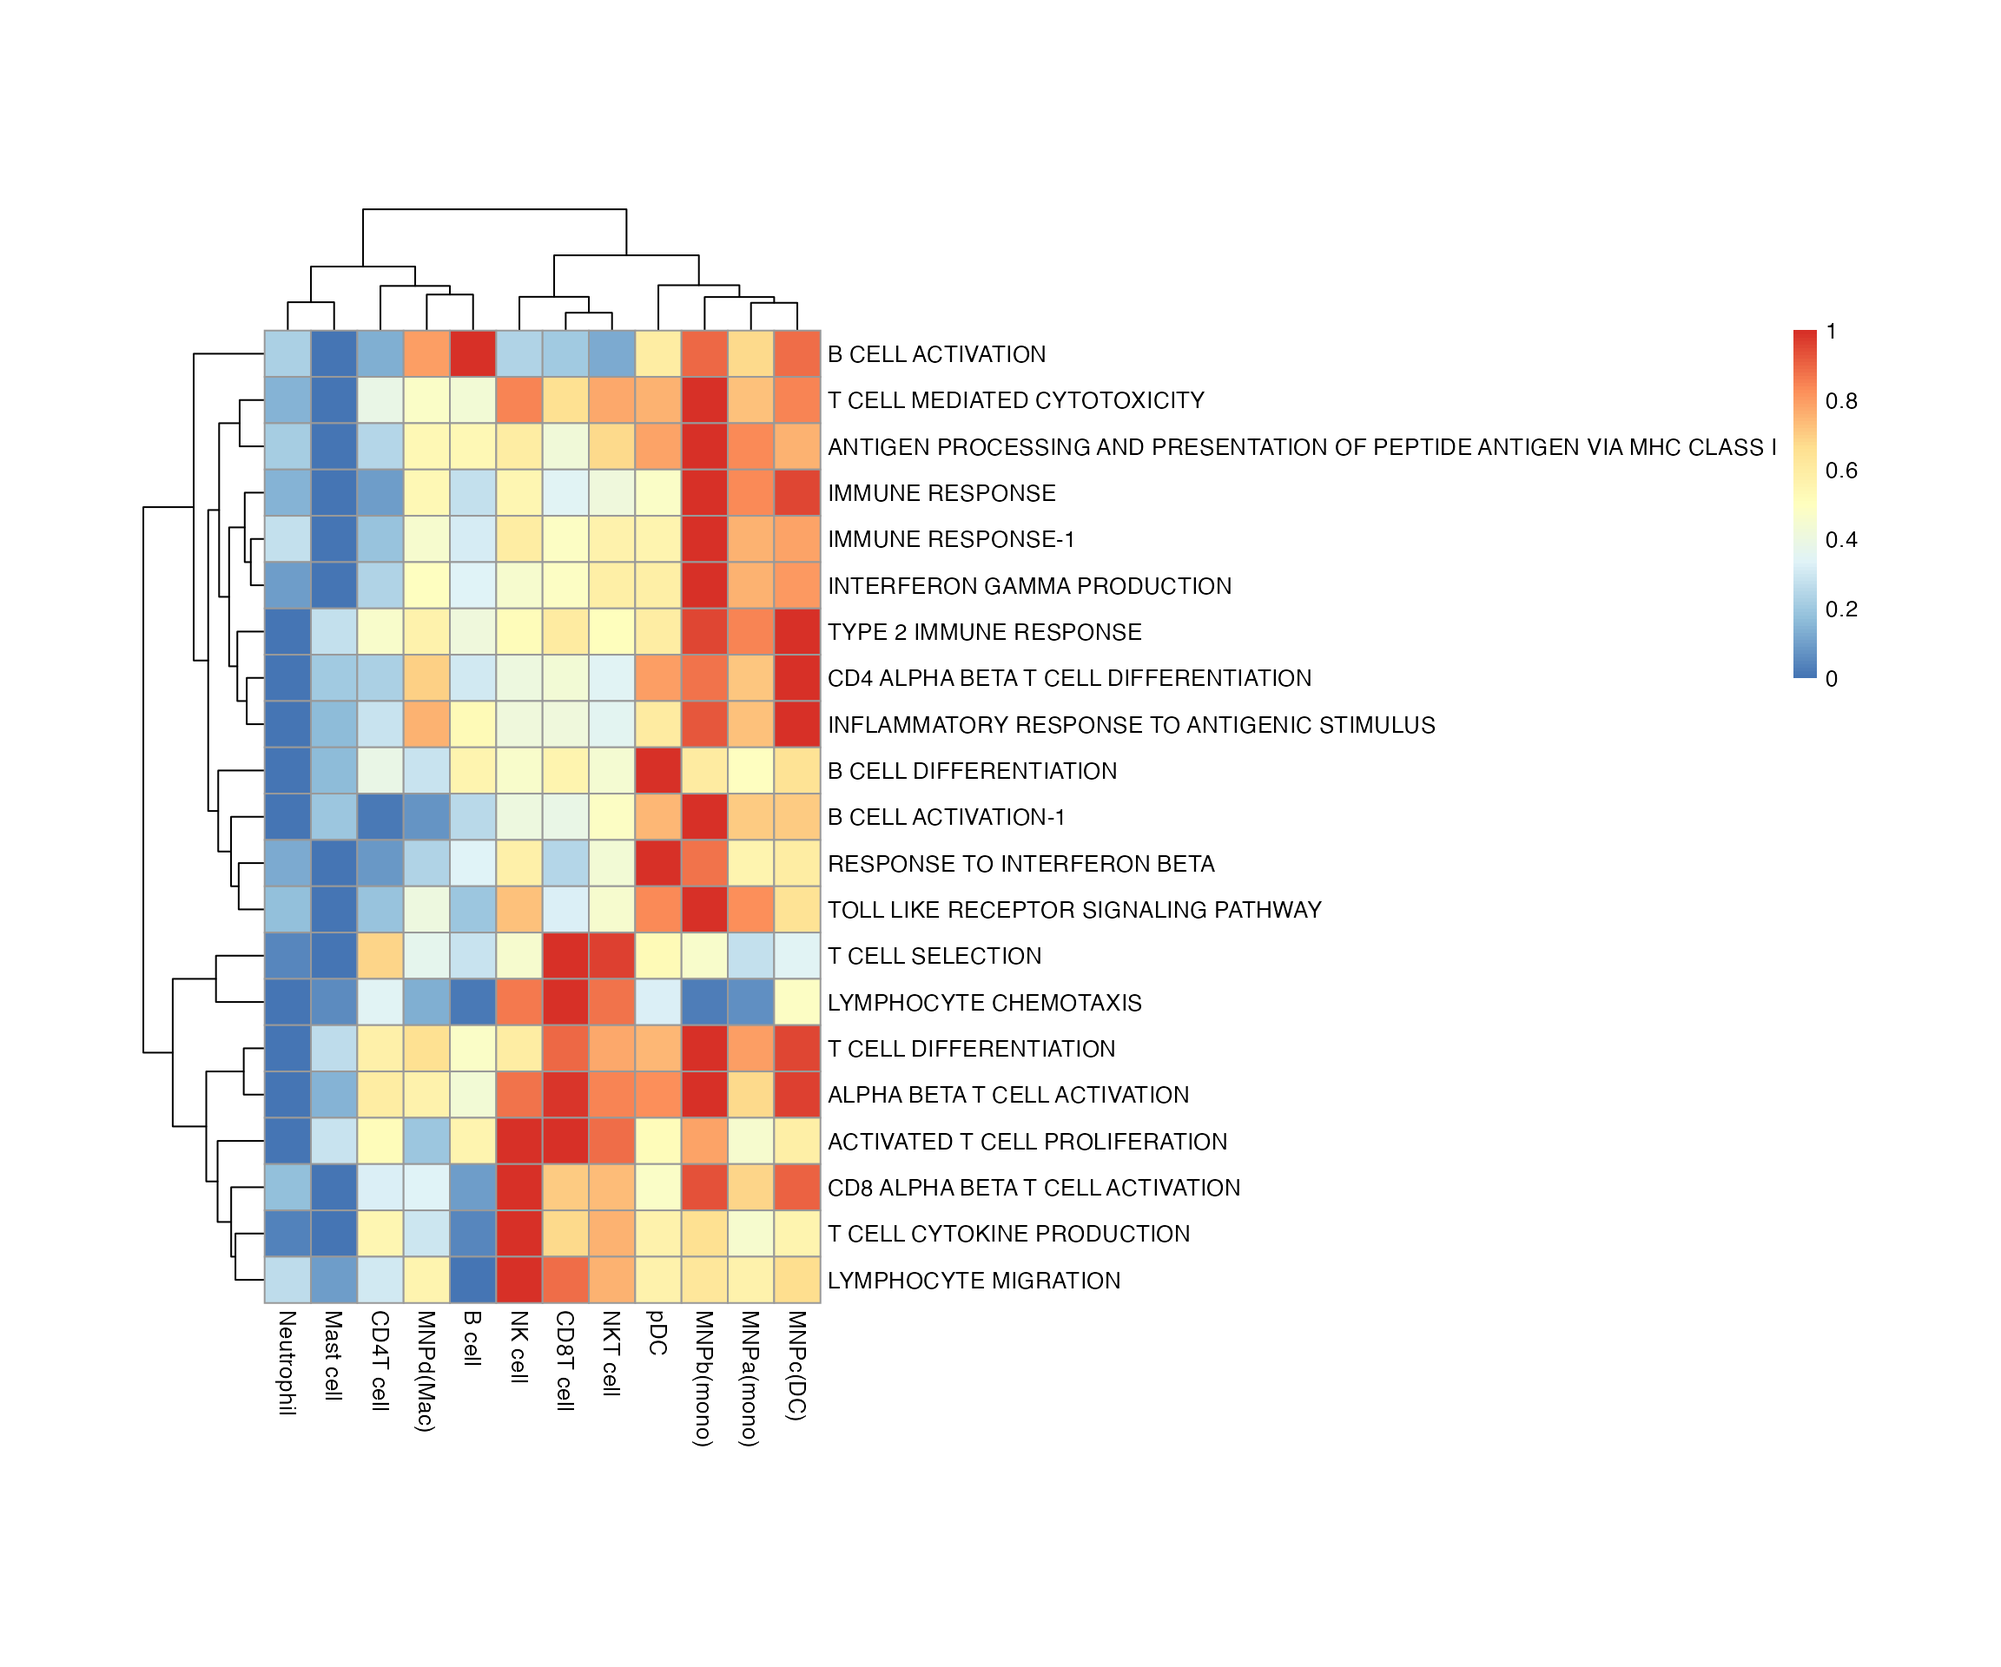
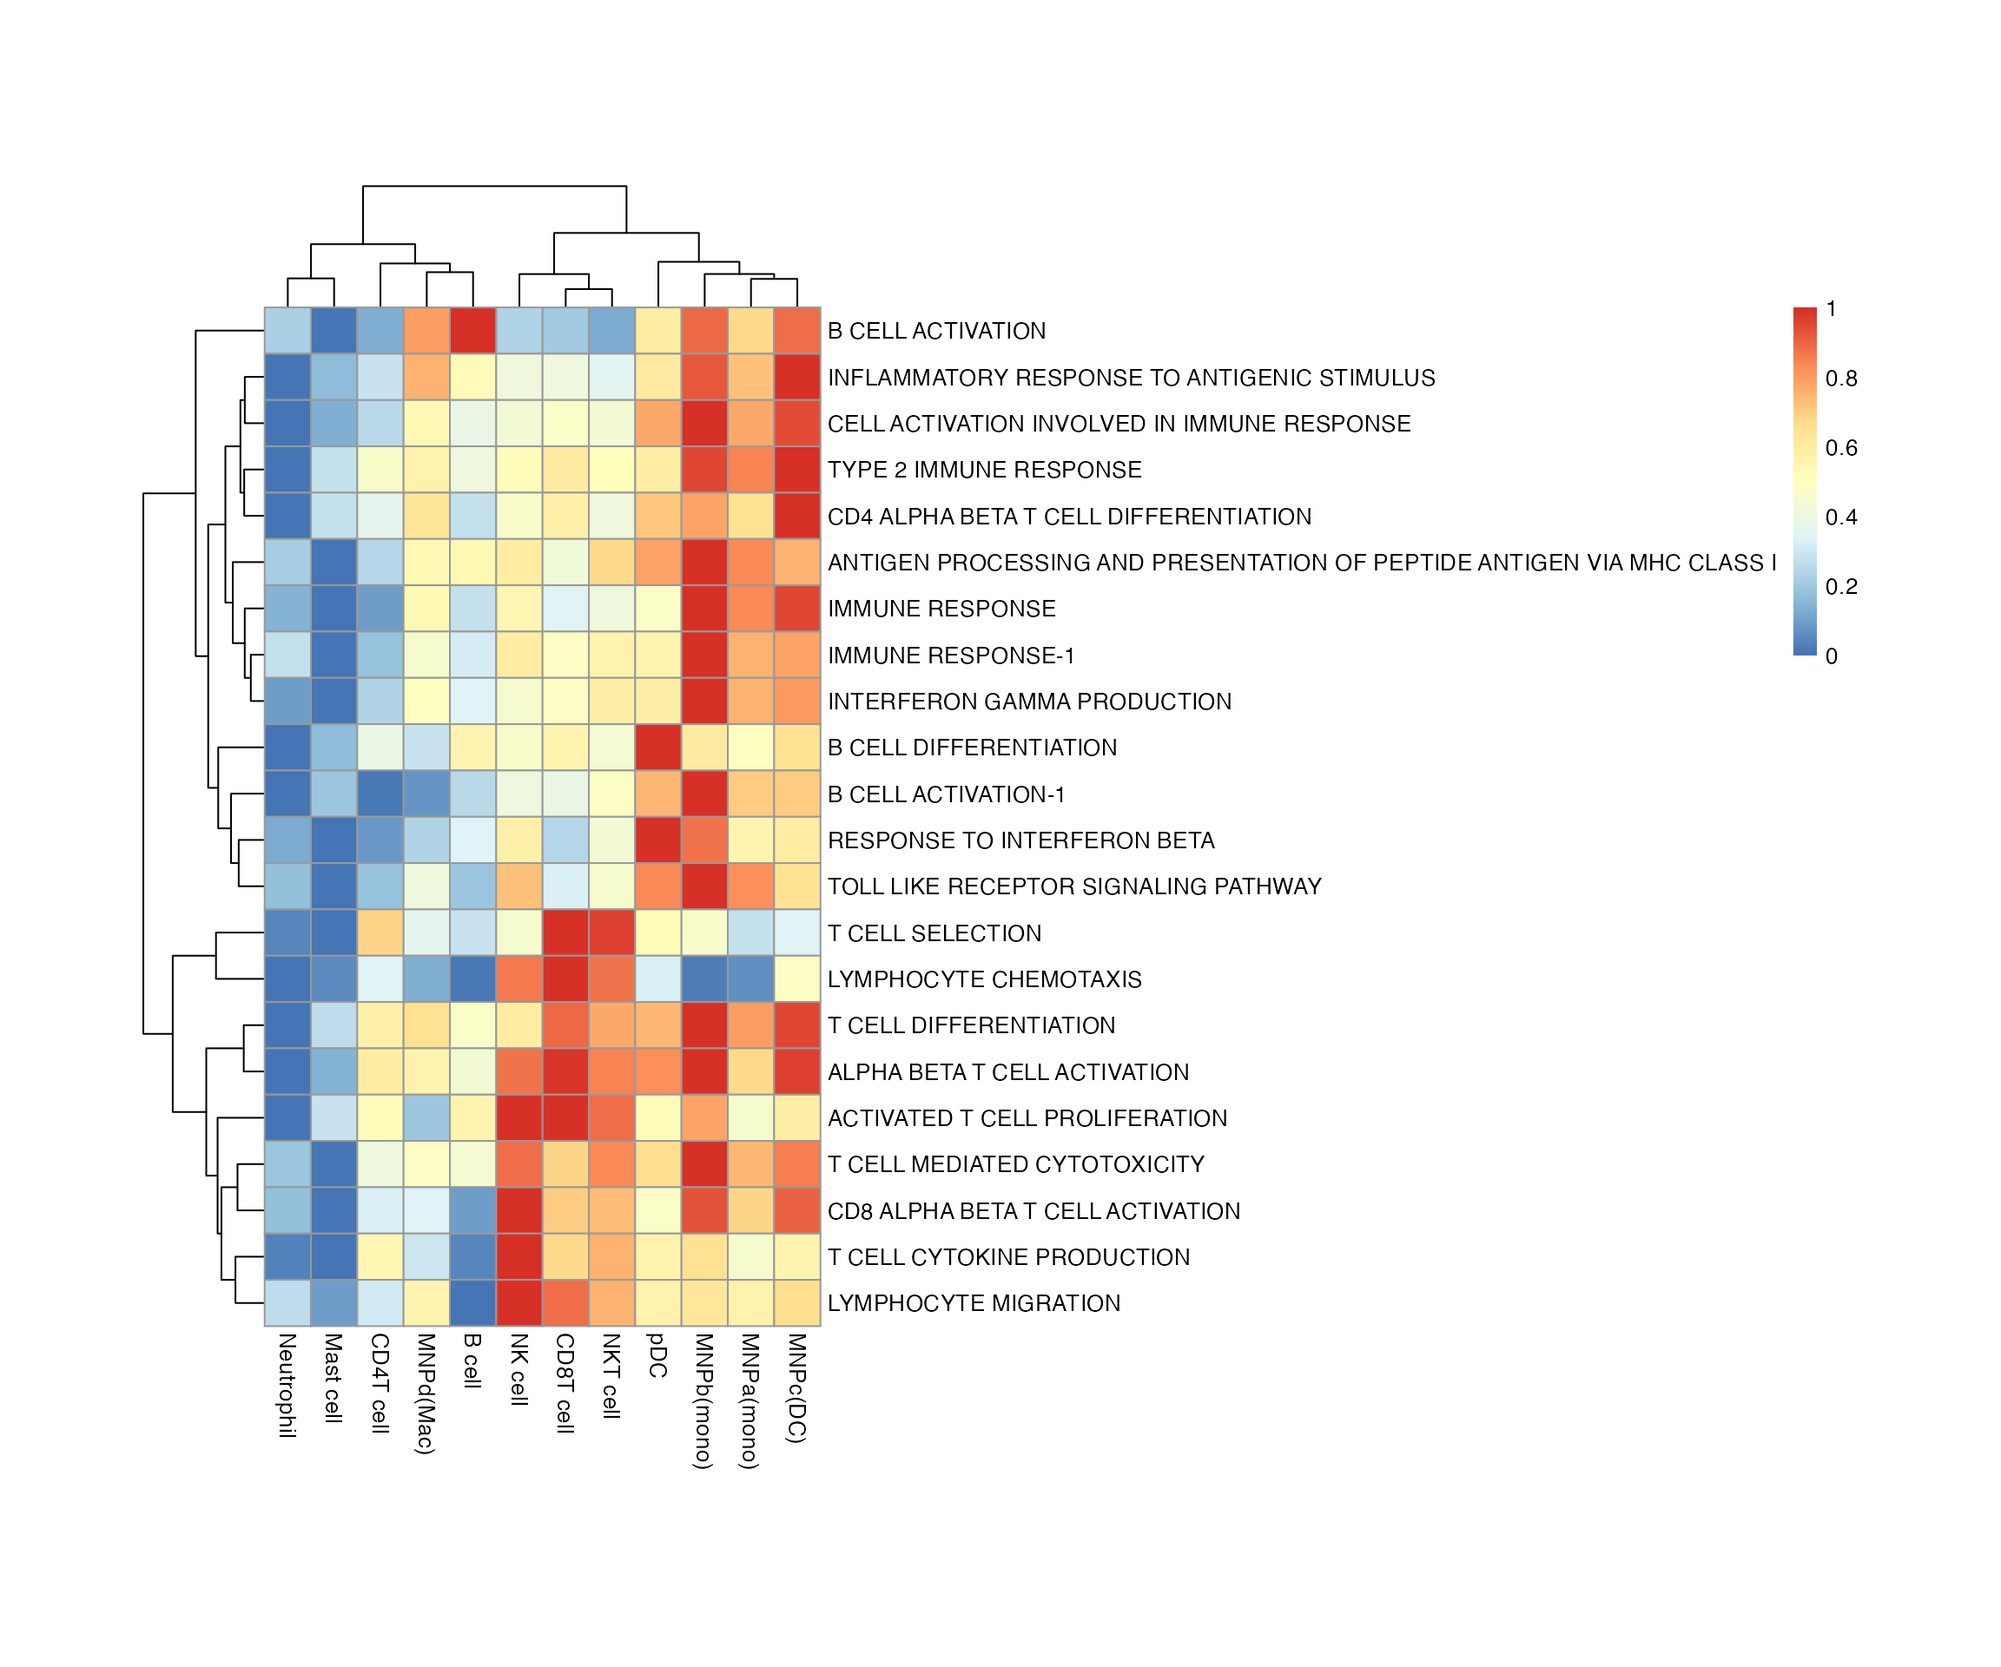
Built site for bowerbird: 0.0.2@b9c4651

Changed region(s): [[0.0938, 0.125, 0.9375, 0.875], [0.6875, 0.3125, 0.9375, 0.4062], [0.0938, 0.5625, 0.125, 0.5938]]

diff --git a/articles/bowerbird_vignette.html b/articles/bowerbird_vignette.html
@@ -74,7 +74,7 @@
     <div class="page-header toc-ignore">
       <h1 data-toc-skip>Introduction to bowerbird</h1>
             
-            <h4 class="date">2021-07-23</h4>
+            <h4 class="date">2021-07-27</h4>
       
       
       <div class="hidden name"><code>bowerbird_vignette.rmd</code></div>
@@ -160,12 +160,12 @@
 <span class="va">bwr</span> <span class="op">&lt;-</span> <span class="fu"><a href="../reference/snn_graph.html">snn_graph</a></span><span class="op">(</span><span class="va">bwr</span><span class="op">)</span>
 <span class="va">bwr</span> <span class="op">&lt;-</span> <span class="fu"><a href="../reference/find_clusters.html">find_clusters</a></span><span class="op">(</span><span class="va">bwr</span><span class="op">)</span>
 <span class="va">bwr</span> <span class="op">&lt;-</span> <span class="fu">summarize_clusters</span><span class="op">(</span><span class="va">bwr</span><span class="op">)</span>
-<span class="co">#&gt; Downloading udpipe model from https://raw.githubusercontent.com/jwijffels/udpipe.models.ud.2.5/master/inst/udpipe-ud-2.5-191206/english-ewt-ud-2.5-191206.udpipe to /var/folders/24/8k48jl6d249_n_qfxwsl6xvm0000gn/T//RtmpX3BAn7/english-ewt-ud-2.5-191206.udpipe</span>
+<span class="co">#&gt; Downloading udpipe model from https://raw.githubusercontent.com/jwijffels/udpipe.models.ud.2.5/master/inst/udpipe-ud-2.5-191206/english-ewt-ud-2.5-191206.udpipe to /var/folders/24/8k48jl6d249_n_qfxwsl6xvm0000gn/T//Rtmp8R6r6m/english-ewt-ud-2.5-191206.udpipe</span>
 <span class="co">#&gt;  - This model has been trained on version 2.5 of data from https://universaldependencies.org</span>
 <span class="co">#&gt;  - The model is distributed under the CC-BY-SA-NC license: https://creativecommons.org/licenses/by-nc-sa/4.0</span>
 <span class="co">#&gt;  - Visit https://github.com/jwijffels/udpipe.models.ud.2.5 for model license details.</span>
 <span class="co">#&gt;  - For a list of all models and their licenses (most models you can download with this package have either a CC-BY-SA or a CC-BY-SA-NC license) read the documentation at ?udpipe_download_model. For building your own models: visit the documentation by typing vignette('udpipe-train', package = 'udpipe')</span>
-<span class="co">#&gt; Downloading finished, model stored at '/var/folders/24/8k48jl6d249_n_qfxwsl6xvm0000gn/T//RtmpX3BAn7/english-ewt-ud-2.5-191206.udpipe'</span></code></pre></div>
+<span class="co">#&gt; Downloading finished, model stored at '/var/folders/24/8k48jl6d249_n_qfxwsl6xvm0000gn/T//Rtmp8R6r6m/english-ewt-ud-2.5-191206.udpipe'</span></code></pre></div>
 <p>Or extracting from <code>msigdbr</code>.</p>
 <div class="sourceCode" id="cb7"><pre class="downlit sourceCode r">
 <code class="sourceCode R"><span class="kw"><a href="https://rdrr.io/r/base/library.html">library</a></span><span class="op">(</span><span class="va"><a href="https://igordot.github.io/msigdbr/">msigdbr</a></span><span class="op">)</span>
@@ -181,52 +181,53 @@
 <span class="va">bwr</span> <span class="op">&lt;-</span> <span class="fu"><a href="../reference/snn_graph.html">snn_graph</a></span><span class="op">(</span><span class="va">bwr</span><span class="op">)</span>
 <span class="va">bwr</span> <span class="op">&lt;-</span> <span class="fu"><a href="../reference/find_clusters.html">find_clusters</a></span><span class="op">(</span><span class="va">bwr</span><span class="op">)</span>
 <span class="va">bwr</span> <span class="op">&lt;-</span> <span class="fu">summarize_clusters</span><span class="op">(</span><span class="va">bwr</span><span class="op">)</span>
-<span class="co">#&gt; Downloading udpipe model from https://raw.githubusercontent.com/jwijffels/udpipe.models.ud.2.5/master/inst/udpipe-ud-2.5-191206/english-ewt-ud-2.5-191206.udpipe to /var/folders/24/8k48jl6d249_n_qfxwsl6xvm0000gn/T//RtmpX3BAn7/english-ewt-ud-2.5-191206.udpipe</span>
+<span class="co">#&gt; Downloading udpipe model from https://raw.githubusercontent.com/jwijffels/udpipe.models.ud.2.5/master/inst/udpipe-ud-2.5-191206/english-ewt-ud-2.5-191206.udpipe to /var/folders/24/8k48jl6d249_n_qfxwsl6xvm0000gn/T//Rtmp8R6r6m/english-ewt-ud-2.5-191206.udpipe</span>
 <span class="co">#&gt;  - This model has been trained on version 2.5 of data from https://universaldependencies.org</span>
 <span class="co">#&gt;  - The model is distributed under the CC-BY-SA-NC license: https://creativecommons.org/licenses/by-nc-sa/4.0</span>
 <span class="co">#&gt;  - Visit https://github.com/jwijffels/udpipe.models.ud.2.5 for model license details.</span>
 <span class="co">#&gt;  - For a list of all models and their licenses (most models you can download with this package have either a CC-BY-SA or a CC-BY-SA-NC license) read the documentation at ?udpipe_download_model. For building your own models: visit the documentation by typing vignette('udpipe-train', package = 'udpipe')</span>
-<span class="co">#&gt; Downloading finished, model stored at '/var/folders/24/8k48jl6d249_n_qfxwsl6xvm0000gn/T//RtmpX3BAn7/english-ewt-ud-2.5-191206.udpipe'</span></code></pre></div>
+<span class="co">#&gt; Downloading finished, model stored at '/var/folders/24/8k48jl6d249_n_qfxwsl6xvm0000gn/T//Rtmp8R6r6m/english-ewt-ud-2.5-191206.udpipe'</span></code></pre></div>
 <p>So what has actually happened? Well, basically <code>bowerbird</code> has learnt which gene sets share more genes with each other, clustered them together and learnt a new summary term.</p>
 <div class="sourceCode" id="cb8"><pre class="downlit sourceCode r">
 <code class="sourceCode R"><span class="va">bwr</span>
 <span class="co">#&gt; BOWER class</span>
 <span class="co">#&gt; number of genesets:  265 </span>
 <span class="co">#&gt; genesets kNN Graph: </span>
-<span class="co">#&gt; IGRAPH 3099b81 UNW- 265 843 -- </span>
+<span class="co">#&gt; IGRAPH 85ae357 UNW- 265 783 -- </span>
 <span class="co">#&gt; + attr: name (v/c), cluster (v/n), geneset_size (v/n), terms (v/c),</span>
 <span class="co">#&gt; | labels (v/c), weight (e/n)</span>
-<span class="co">#&gt; + edges from 3099b81 (vertex names):</span>
+<span class="co">#&gt; + edges from 85ae357 (vertex names):</span>
 <span class="co">#&gt; [1] GOBP_ACTIVATED_T_CELL_PROLIFERATION--GOBP_CD8_POSITIVE_ALPHA_BETA_T_CELL_DIFFERENTIATION          </span>
 <span class="co">#&gt; [2] GOBP_ACTIVATED_T_CELL_PROLIFERATION--GOBP_NEGATIVE_REGULATION_OF_ACTIVATED_T_CELL_PROLIFERATION   </span>
 <span class="co">#&gt; [3] GOBP_ACTIVATED_T_CELL_PROLIFERATION--GOBP_NEGATIVE_REGULATION_OF_LYMPHOCYTE_DIFFERENTIATION       </span>
 <span class="co">#&gt; [4] GOBP_ACTIVATED_T_CELL_PROLIFERATION--GOBP_NEGATIVE_REGULATION_OF_T_CELL_RECEPTOR_SIGNALING_PATHWAY</span>
 <span class="co">#&gt; [5] GOBP_ACTIVATION_OF_IMMUNE_RESPONSE --GOBP_ACTIVATION_OF_INNATE_IMMUNE_RESPONSE                    </span>
 <span class="co">#&gt; + ... omitted several edges</span>
-<span class="co">#&gt; number of geneset clusters:  21 </span>
+<span class="co">#&gt; number of geneset clusters:  22 </span>
 <span class="co">#&gt; Core genes:</span>
 <span class="co">#&gt;  First six genes shown</span>
 <span class="co">#&gt;   IMMUNE RESPONSE-1 : AIM2 BCL10 BTRC CARD11 CARD9 CD209 ...</span>
-<span class="co">#&gt;   CD4 ALPHA BETA T CELL DIFFERENTIATION : ANXA1 ATP7A BATF BCL3 BCL6 CBFB ...</span>
-<span class="co">#&gt;   IMMUNE RESPONSE : CLNK HLA-E HLA-F IFNA2 IFNB1 IL18 ...</span>
 <span class="co">#&gt;   TYPE 2 IMMUNE RESPONSE : IL4 PLCL2 TLR4 IL18 IL18R1 IL4R ...</span>
+<span class="co">#&gt;   IMMUNE RESPONSE : CLNK HLA-E HLA-F IFNA2 IFNB1 IL18 ...</span>
+<span class="co">#&gt;   B CELL ACTIVATION-1 : ADA BAX BCL6 BLK BTK CD74 ...</span>
 <span class="co">#&gt;   RESPONSE TO INTERFERON BETA : BCL2L11 HIF1A MEF2C ADA SOS1 SOS2 ...</span>
 <span class="co">#&gt;   T CELL MEDIATED CYTOTOXICITY : HLA-A HLA-B HLA-C HLA-E HLA-F HLA-G ...</span>
-<span class="co">#&gt;   B CELL ACTIVATION-1 : ADA BAX BCL6 BLK BTK CD74 ...</span>
 <span class="co">#&gt;   CD8 ALPHA BETA T CELL ACTIVATION : HLA-E GATA3 ADCYAP1 BTK C3 CCR7 ...</span>
+<span class="co">#&gt;   CD4 ALPHA BETA T CELL DIFFERENTIATION : ANXA1 ATP7A BATF BCL3 BCL6 CBFB ...</span>
 <span class="co">#&gt;   T CELL DIFFERENTIATION : FCGR2B FGL2 HLA-DOA LILRB2 THBS1 BMP4 ...</span>
 <span class="co">#&gt;   INTERFERON GAMMA PRODUCTION : ABCB9 ACE ACTR10 ACTR1A ACTR1B AP1B1 ...</span>
 <span class="co">#&gt;   TOLL LIKE RECEPTOR SIGNALING PATHWAY : CACTIN PTPRS TICAM1 TLR3 TLR4 TLR9 ...</span>
 <span class="co">#&gt;   T CELL CYTOKINE PRODUCTION : KLRC1 LILRB1 NOD2 PTPRC EGR3 LEF1 ...</span>
 <span class="co">#&gt;   B CELL DIFFERENTIATION : IL10 TLR9 SYK ADA BCL3 C17orf99 ...</span>
 <span class="co">#&gt;   T CELL SELECTION : TOX BCL2 BATF CTSL FOXP3 IL12B ...</span>
-<span class="co">#&gt;   LYMPHOCYTE CHEMOTAXIS : CCL2 CCL3 CCL4 CCL5 CCL7 CXCL14 ...</span>
 <span class="co">#&gt;   B CELL ACTIVATION : ADA ADAM17 BATF BCL3 BCL6 BTK ...</span>
 <span class="co">#&gt;   ACTIVATED T CELL PROLIFERATION : LILRB4 CD24 CD274 FYN HHLA2 ICOSLG ...</span>
-<span class="co">#&gt;   INFLAMMATORY RESPONSE TO ANTIGENIC STIMULUS : BTK C3 CD28 HLA-E LTA NOD2 ...</span>
+<span class="co">#&gt;   LYMPHOCYTE CHEMOTAXIS : CCL2 CCL3 CCL4 CCL5 CCL7 CXCL14 ...</span>
 <span class="co">#&gt;   ALPHA BETA T CELL ACTIVATION : AGER ANXA1 ARG2 ATP7A BATF BCL3 ...</span>
+<span class="co">#&gt;   INFLAMMATORY RESPONSE TO ANTIGENIC STIMULUS : BTK C3 CD28 HLA-E LTA NOD2 ...</span>
+<span class="co">#&gt;   LYMPHOCYTE MIGRATION : ADAM10 ADAM17 ADAM8 AIF1 APP CCL20 ...</span>
 <span class="co">#&gt;   ANTIGEN PROCESSING AND PRESENTATION OF PEPTIDE ANTIGEN VIA MHC CLASS I : ABCB9 AZGP1 B2M ERAP1 ERAP2 HFE ...</span>
-<span class="co">#&gt;   LYMPHOCYTE MIGRATION : ADAM10 ADAM17 ADAM8 AIF1 APP CCL20 ...</span></code></pre></div>
+<span class="co">#&gt;   CELL ACTIVATION INVOLVED IN IMMUNE RESPONSE : ABL1 ADA ANXA1 AP1G1 APBB1IP ATP7A ...</span></code></pre></div>
 <p>We can visualise it with a simple plot</p>
 <div class="sourceCode" id="cb9"><pre class="downlit sourceCode r">
 <code class="sourceCode R"><span class="fu"><a href="../reference/plot_graph.html">plot_graph</a></span><span class="op">(</span><span class="va">bwr</span>, colorby <span class="op">=</span> <span class="st">'cluster'</span>, node.size <span class="op">=</span> <span class="st">'geneset_size'</span><span class="op">)</span></code></pre></div>

diff --git a/reference/index.html b/reference/index.html
@@ -164,7 +164,7 @@
       </tr><tr>
         
         <td>
-          <p><code><a href="misc.html">.is_blank()</a></code> <code><a href="misc.html">.filter_geneset()</a></code> <code><a href="misc.html">.emptyBOWER()</a></code> <code><a href="misc.html">.create_graph()</a></code> <code><a href="misc.html">.graph_to_data()</a></code> <code><a href="misc.html">.closest_to_centroid()</a></code> <code><a href="misc.html">.typecheck()</a></code> <code><a href="misc.html">.makeRankGeneList()</a></code> <code><a href="misc.html">range01()</a></code> <code><a href="misc.html">.retrieve_gsea()</a></code> <code><a href="misc.html">.read_geneset()</a></code> </p>
+          <p><code><a href="misc.html">.is_blank()</a></code> <code><a href="misc.html">.sanitize()</a></code> <code><a href="misc.html">.filter_geneset()</a></code> <code><a href="misc.html">.emptyBOWER()</a></code> <code><a href="misc.html">.create_graph()</a></code> <code><a href="misc.html">.graph_to_data()</a></code> <code><a href="misc.html">.closest_to_centroid()</a></code> <code><a href="misc.html">.typecheck()</a></code> <code><a href="misc.html">.makeRankGeneList()</a></code> <code><a href="misc.html">range01()</a></code> <code><a href="misc.html">.retrieve_gsea()</a></code> <code><a href="misc.html">.read_geneset()</a></code> </p>
         </td>
         <td><p>misc</p></td>
       </tr><tr>

diff --git a/reference/summarize_clusters.html b/reference/summarize_clusters.html
@@ -131,6 +131,7 @@
   pattern <span class='op'>=</span> <span class='cn'>NULL</span>,
   sep <span class='op'>=</span> <span class='cn'>NULL</span>,
   ncpus <span class='op'>=</span> <span class='cn'>NULL</span>,
+  clean_graph <span class='op'>=</span> <span class='cn'>TRUE</span>,
   <span class='va'>...</span>
 <span class='op'>)</span>
 
@@ -141,6 +142,7 @@
   pattern <span class='op'>=</span> <span class='cn'>NULL</span>,
   sep <span class='op'>=</span> <span class='cn'>NULL</span>,
   ncpus <span class='op'>=</span> <span class='cn'>NULL</span>,
+  clean_graph <span class='op'>=</span> <span class='cn'>TRUE</span>,
   <span class='va'>...</span>
 <span class='op'>)</span></pre>
 
@@ -162,6 +164,10 @@
     <tr>
       <th>ncpus</th>
       <td><p>number of cores used for parallelizing reconstruction.</p></td>
+    </tr>
+    <tr>
+      <th>clean_graph</th>
+      <td><p>return a graph connecting only nodes in a cluster.</p></td>
     </tr>
     <tr>
       <th>...</th>

diff --git a/index.html b/index.html
@@ -232,6 +232,7 @@
 <ul class="list-unstyled">
 <li><a href="https://github.com/clatworthylab/bowerbird/actions/workflows/r.yml"><img src="https://github.com/clatworthylab/bowerbird/actions/workflows/r.yml/badge.svg?branch=master" alt="R"></a></li>
 <li><a href="https://github.com/clatworthylab/bowerbird/actions/workflows/vignette.yml"><img src="https://github.com/clatworthylab/bowerbird/actions/workflows/vignette.yml/badge.svg" alt="vignette"></a></li>
+<li><a href="https://codecov.io/gh/clatworthylab/bowerbird?branch=master"><img src="https://codecov.io/gh/clatworthylab/bowerbird/branch/master/graph/badge.svg" alt="Codecov test coverage"></a></li>
 </ul>
 </div>
 </div>

diff --git a/reference/misc.html b/reference/misc.html
@@ -126,6 +126,8 @@
 
     <pre class="usage"><span class='fu'>.is_blank</span><span class='op'>(</span><span class='va'>x</span><span class='op'>)</span>
 
+<span class='fu'>.sanitize</span><span class='op'>(</span><span class='va'>x</span><span class='op'>)</span>
+
 <span class='fu'>.filter_geneset</span><span class='op'>(</span><span class='va'>gs</span>, <span class='va'>min_size</span><span class='op'>)</span>
 
 <span class='fu'>.emptyBOWER</span><span class='op'>(</span><span class='va'>...</span><span class='op'>)</span>
